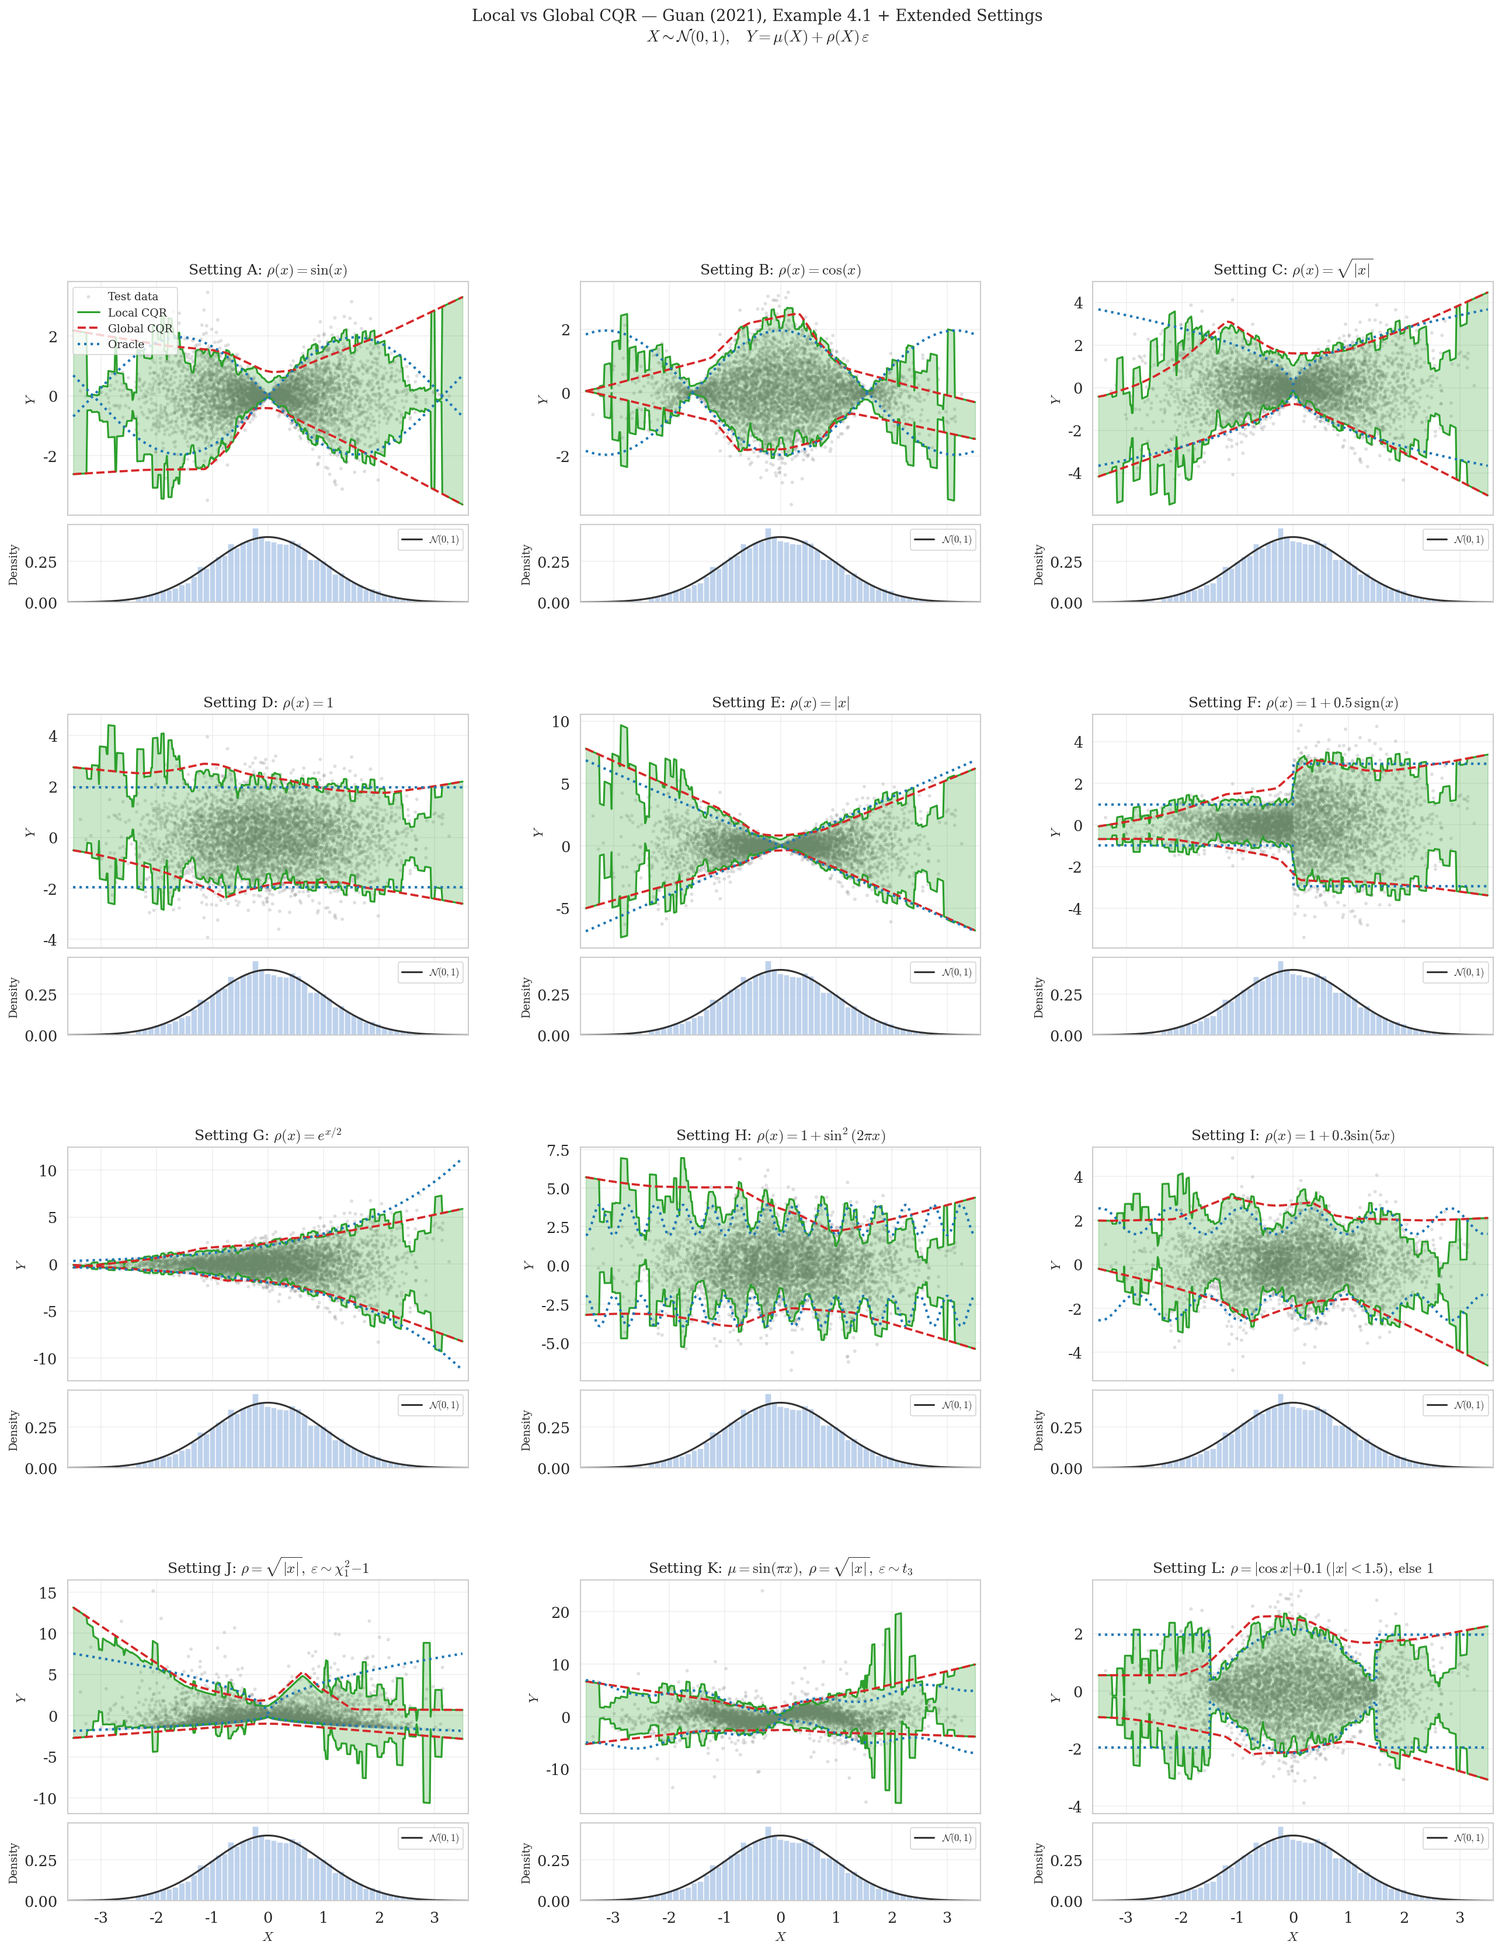
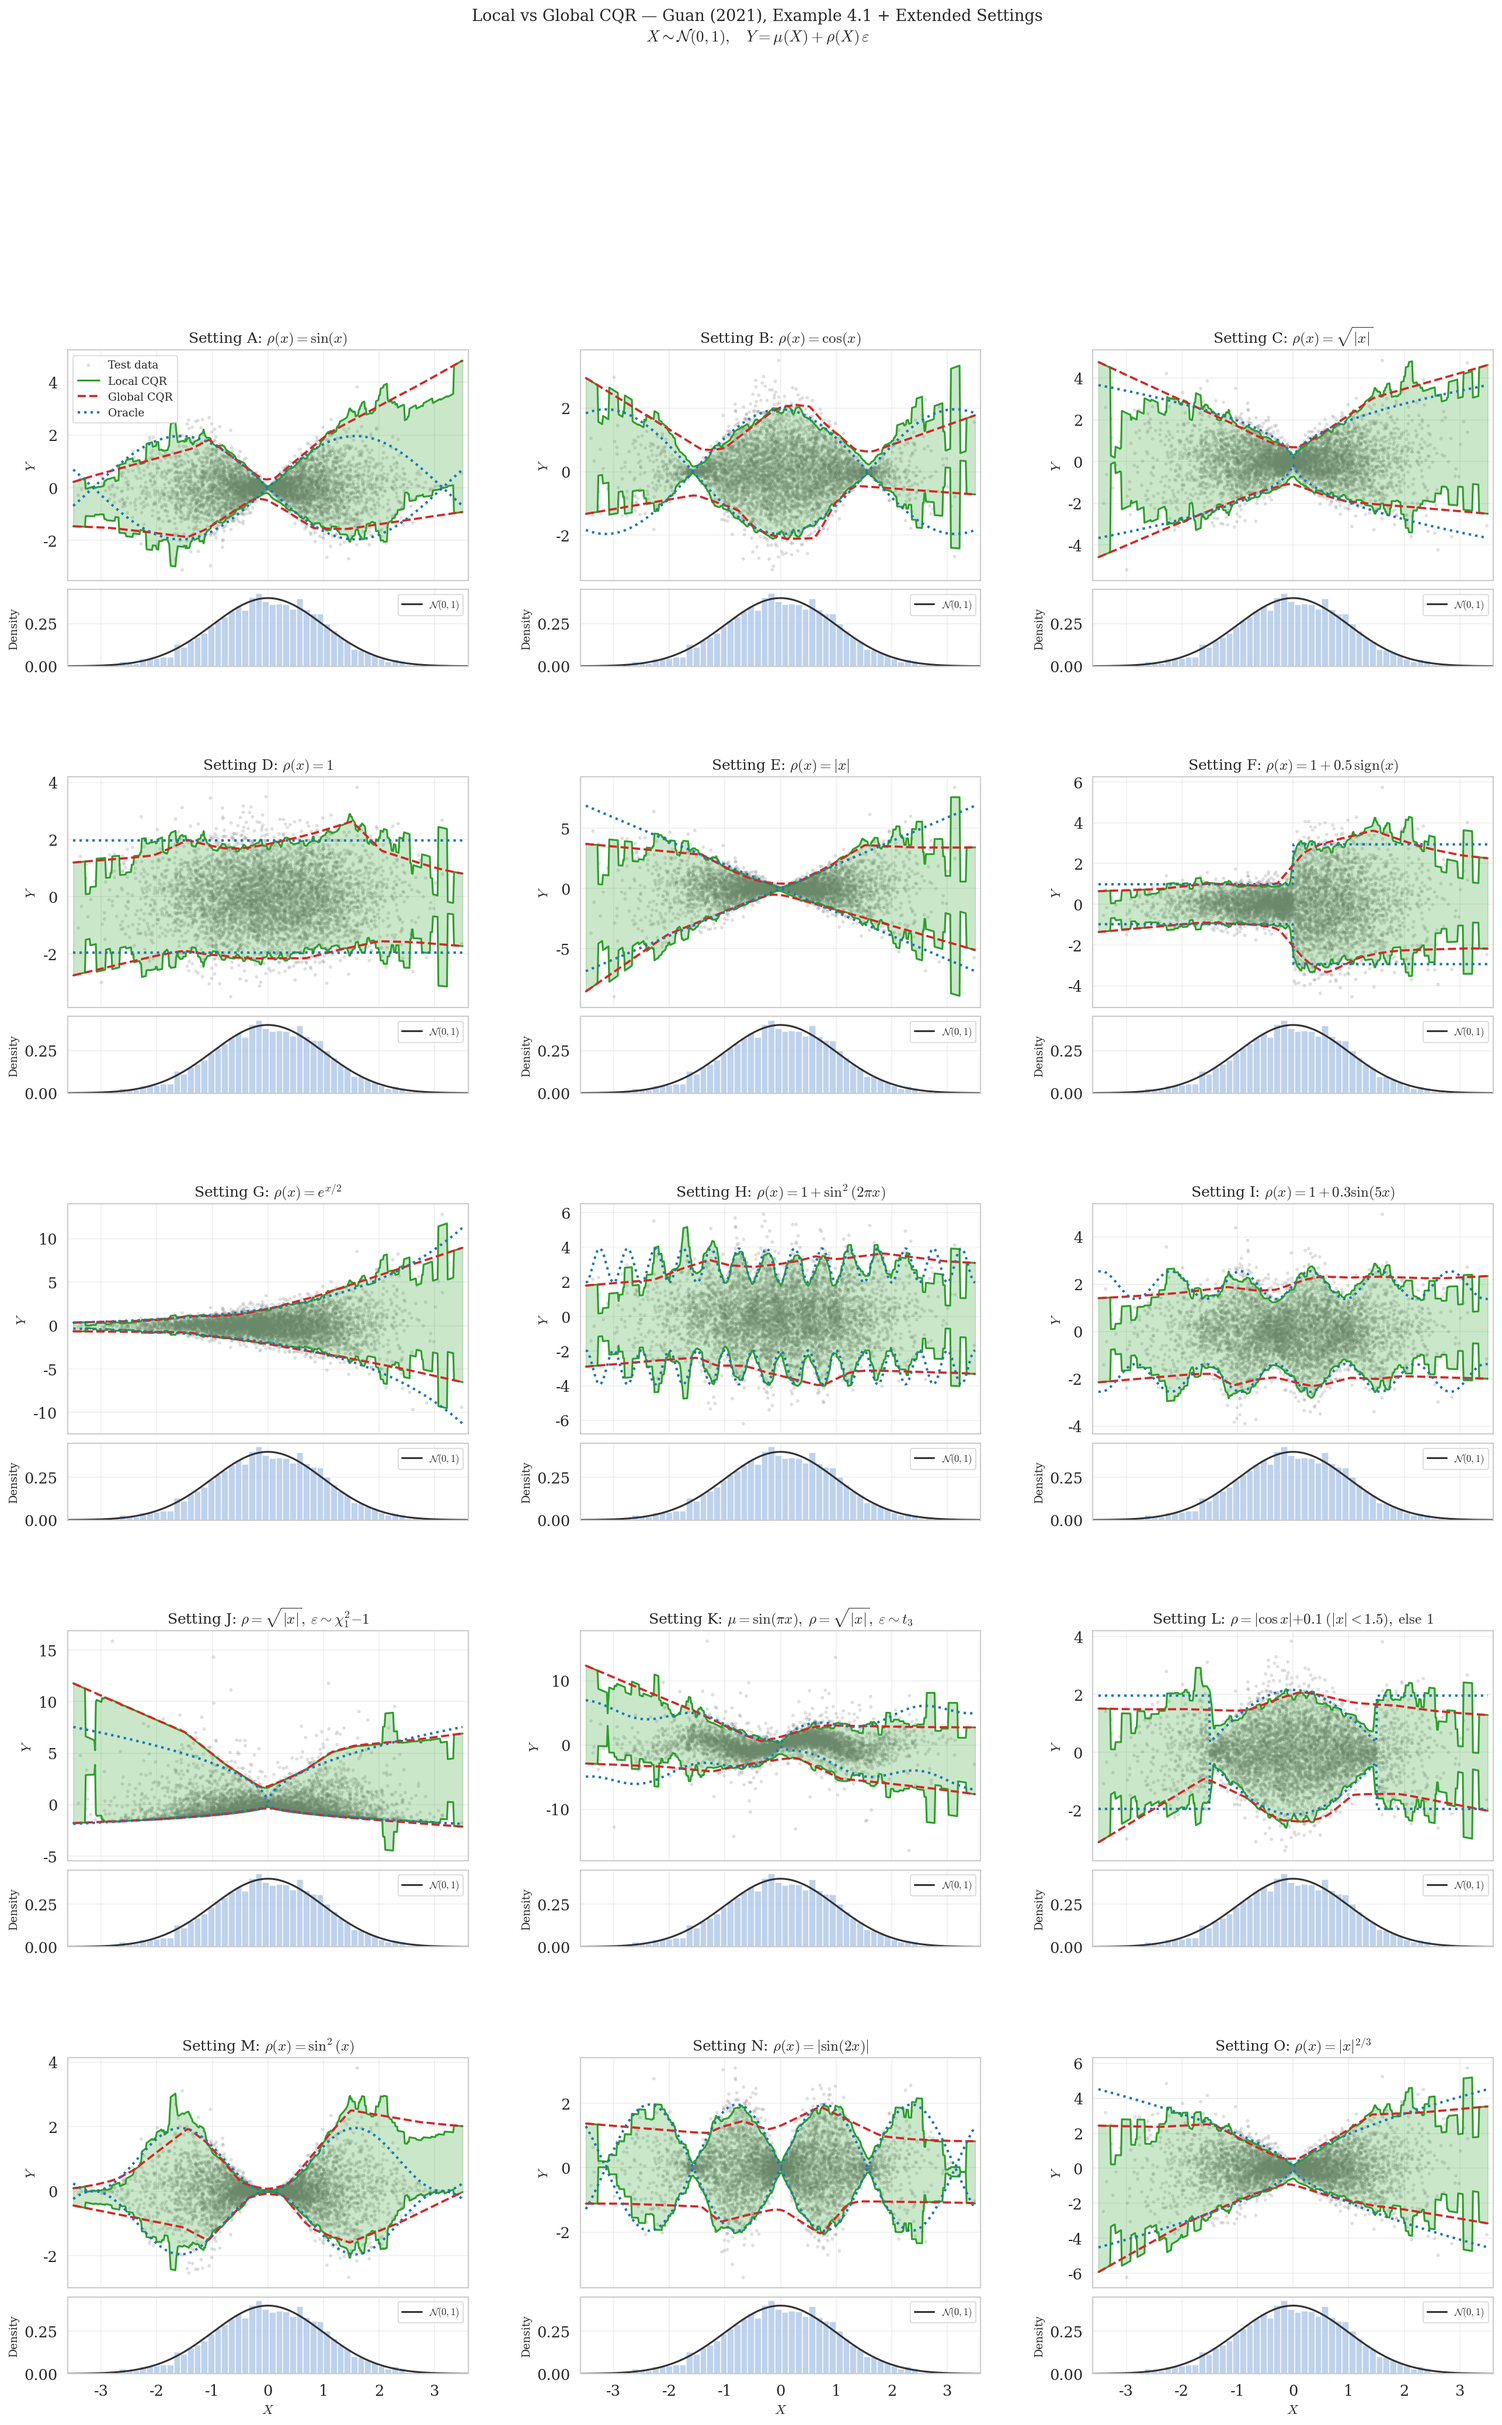
chore: clean up code structure and remove unused code blocks

diff --git a/evaluate_real_data.py b/evaluate_real_data.py
@@ -77,12 +77,15 @@ def load_real_config(path: Optional[str]) -> Dict[str, Any]:
 # =============================================================================
 
 def _compute_bandwidths(
-    X_cal: np.ndarray,
+    X_ref: np.ndarray,
     d: int,
     bandwidth_scale: float = 1.0,
 ) -> Dict[str, float]:
     """
-    Compute three SotA kernel-regression bandwidths on the calibration set.
+    Compute three SotA kernel-regression bandwidths on the training set.
+
+    Using training data (not calibration) to estimate h avoids any
+    dependency between bandwidth selection and conformal calibration.
 
     All rules follow  h = bandwidth_scale * rate(m, d) * sigma_eff, where
     sigma_eff is the geometric mean of per-feature robust spread
@@ -94,9 +97,9 @@ def _compute_bandwidths(
     scott     : m^{-1/(d+4)}         * sigma_eff                   (Scott 1992)
     isj       : m^{-1/(d+4)}         * sigma_eff / sqrt(d)         (dim-penalized rate, Botev 2010)
     """
-    m = len(X_cal)
-    stds = np.std(X_cal, axis=0, ddof=1)
-    iqrs = (np.percentile(X_cal, 75, axis=0) - np.percentile(X_cal, 25, axis=0)) / 1.349
+    m = len(X_ref)
+    stds = np.std(X_ref, axis=0, ddof=1)
+    iqrs = (np.percentile(X_ref, 75, axis=0) - np.percentile(X_ref, 25, axis=0)) / 1.349
     spreads = np.maximum(np.minimum(stds, iqrs), 1e-8)
     sigma_eff = float(np.exp(np.mean(np.log(spreads))))
 
@@ -201,9 +204,10 @@ def evaluate_single_run(
     # =========================================================================
     # LOCALIZED CQR — three SotA bandwidths (Silverman, Scott, ISJ)
     # =========================================================================
-    m = data["n_cal"]
+    # h is estimated from the training set to avoid any dependency with the
+    # conformal calibration step (which uses X_cal independently).
     d = data["X_cal"].shape[1]
-    bandwidths = _compute_bandwidths(data["X_cal"], d, cfg["bandwidth_scale"])
+    bandwidths = _compute_bandwidths(data["X_train"], d, cfg["bandwidth_scale"])
 
     def _run_local(h_val):
         lcp = LocalConformalOptimizer(data["X_cal"], scores, h=h_val)
@@ -303,10 +307,10 @@ def run_dataset_evaluation(
                 li = res["local_isj"]
                 print(
                     f"  Run {attempt+1}/{n_attempts}: "
-                    f"Global cov={g['coverage']:.3f} w={g['avg_width']:.3f} | "
-                    f"Silverman(h={res['h_silverman']:.3f}) cov={ls['coverage']:.3f} w={ls['avg_width']:.3f} | "
-                    f"Scott(h={res['h_scott']:.3f}) cov={lsc['coverage']:.3f} w={lsc['avg_width']:.3f} | "
-                    f"ISJ(h={res['h_isj']:.3f}) cov={li['coverage']:.3f} w={li['avg_width']:.3f}"
+                    f"Global cov={g['coverage']:.3f} wgc={g['worst_bin_cov']:.3f} w={g['avg_width']:.3f} | "
+                    f"Silverman(h={res['h_silverman']:.3f}) cov={ls['coverage']:.3f} wgc={ls['worst_bin_cov']:.3f} w={ls['avg_width']:.3f} | "
+                    f"Scott(h={res['h_scott']:.3f}) cov={lsc['coverage']:.3f} wgc={lsc['worst_bin_cov']:.3f} w={lsc['avg_width']:.3f} | "
+                    f"ISJ(h={res['h_isj']:.3f}) cov={li['coverage']:.3f} wgc={li['worst_bin_cov']:.3f} w={li['avg_width']:.3f}"
                 )
         except Exception as e:
             print(f"  Run {attempt+1}/{n_attempts}: FAILED — {e}")

diff --git a/guan2021_figures.py b/guan2021_figures.py
@@ -52,7 +52,7 @@ def run_setting(
     hidden_dim: int = 64,
     epochs: int = 300,
     lr: float = 0.01,
-    bandwidth_scale: float = 0.8,
+    bandwidth_scale: float = 1.0,
     gamma: float = 1.0,
     n_grid: int = 500,
     verbose: bool = True,
@@ -181,6 +181,11 @@ SETTING_LABELS = {
     "K": r"$\mu{=}\sin(\pi x),\;\rho{=}\sqrt{|x|},\;\varepsilon{\sim}t_3$",
     # Mixture / regime switching
     "L": r"$\rho{=}|\cos x|{+}0.1\;(|x|{<}1.5),\;\text{else }1$",
+    # A-like variants: oscillatory bands that collapse to zero
+    "M": r"$\rho(x) = \sin^2(x)$",
+    "N": r"$\rho(x) = |\sin(2x)|$",
+    # C-like variant: sharper cusp at 0
+    "O": r"$\rho(x) = |x|^{2/3}$",
 }
 
 _COLOR_LOCAL  = "#2ca02c"
@@ -299,7 +304,7 @@ def main():
         description="Reproduce Guan (2021) Figure 2 with Local vs Global CQR"
     )
     parser.add_argument("--settings", nargs="+", default=["A", "B", "C", "D"],
-                        choices=["A", "B", "C", "D", "E", "F", "G", "H", "I", "J", "K", "L"],
+                        choices=["A","B","C","D","E","F","G","H","I","J","K","L","M","N","O"],
                         help="Which settings to run (default: original A\u2013D)")
     parser.add_argument("--n_train", type=int, default=1000)
     parser.add_argument("--n_cal",   type=int, default=1000)
@@ -307,7 +312,7 @@ def main():
     parser.add_argument("--alpha",   type=float, default=0.05)
     parser.add_argument("--epochs",  type=int, default=300)
     parser.add_argument("--hidden_dim", type=int, default=64)
-    parser.add_argument("--bandwidth_scale", type=float, default=0.8)
+    parser.add_argument("--bandwidth_scale", type=float, default=1.5)
     parser.add_argument("--seed",    type=int, default=0)
     parser.add_argument("--output",  type=str, default=None,
                         help="Output PDF/PNG path (default: figures_cqr/guan2021_fig2.pdf)")

diff --git a/cqr/data.py b/cqr/data.py
@@ -631,6 +631,11 @@ _GUAN_SETTINGS = {
         "noise": "gaussian",
         "mu": None,
     },
+    # ----- A-like variants: oscillatory bands that collapse to zero -----
+    "M": {"rho": lambda x: np.sin(x) ** 2,        "noise": "gaussian", "mu": None},
+    "N": {"rho": lambda x: np.abs(np.sin(2 * x)), "noise": "gaussian", "mu": None},
+    # ----- C-like variant: sharper cusp at 0 -----
+    "O": {"rho": lambda x: np.abs(x) ** (2 / 3),  "noise": "gaussian", "mu": None},
 }
 
 
